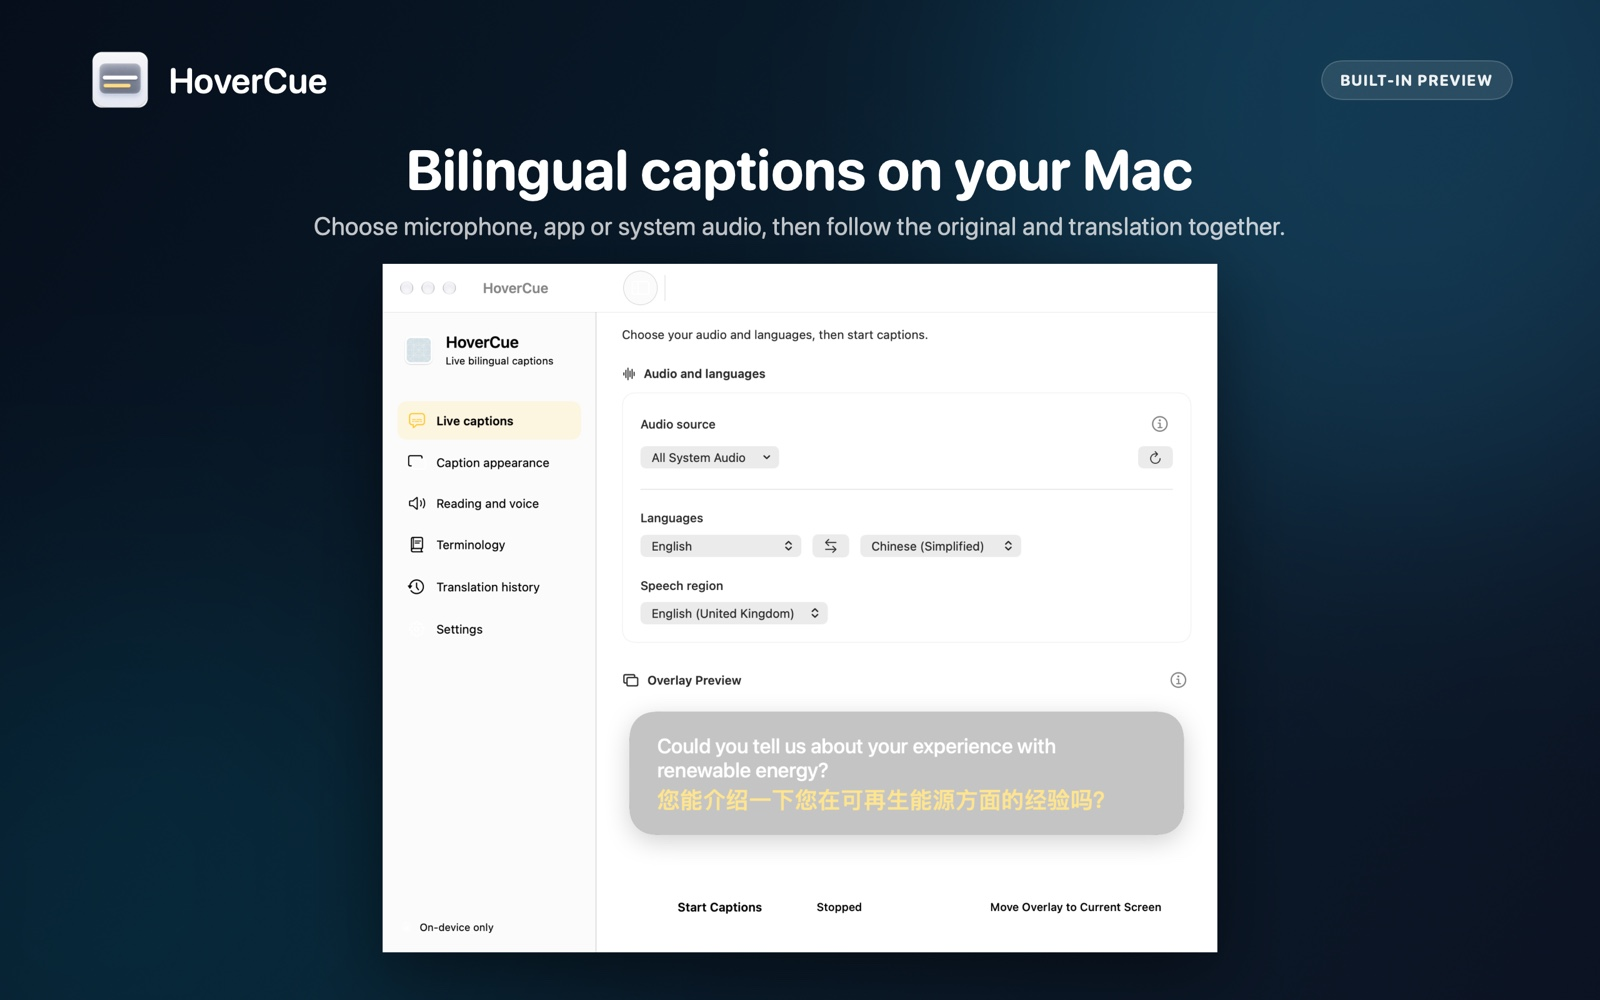
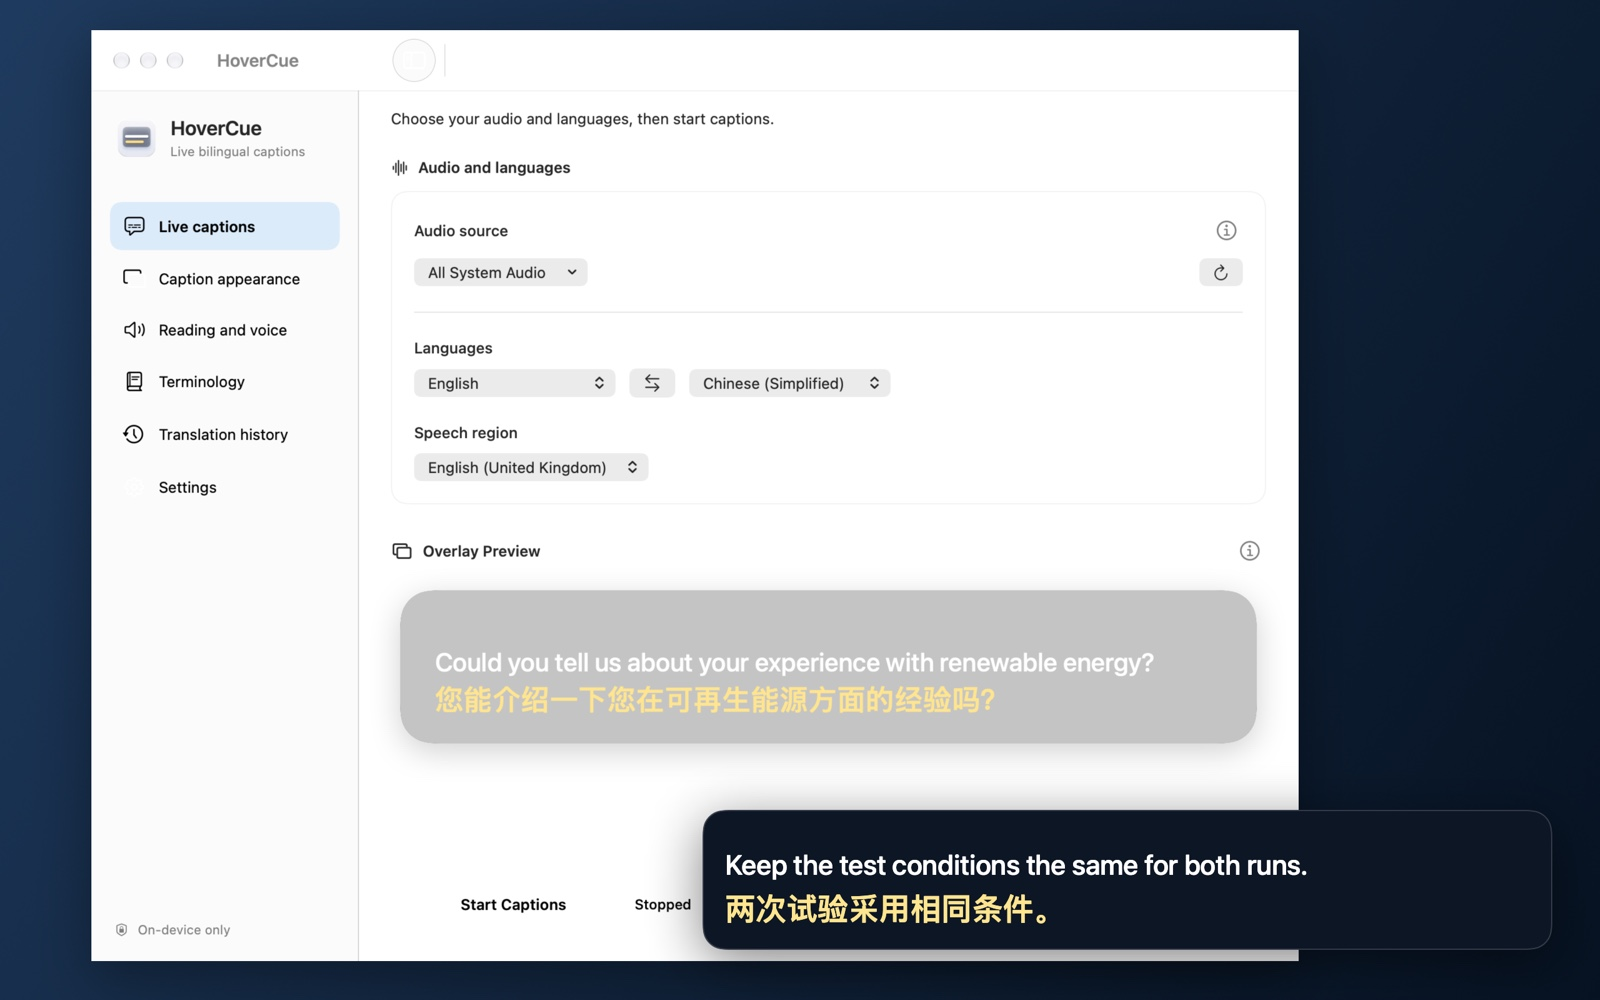
Showcase HoverCue with a bilingual feature gallery

diff --git a/README.md b/README.md
@@ -1,28 +1,81 @@
-# HoverCue
+<p align="center">
+  <img src="LocalDualCaption/Assets.xcassets/AppIcon.appiconset/AppIcon-128@2x.png" width="78" alt="HoverCue icon">
+</p>
 
-HoverCue is a native macOS app that turns audio from a selected app, all system audio, or a microphone into floating bilingual captions. Speech recognition and translation run on your Mac using Apple frameworks.
+<h1 align="center">HoverCue</h1>
 
-[简体中文](README.zh-CN.md) · [Privacy](docs/privacy.md) · [Architecture](docs/architecture.md) · [Verification](docs/testing.md) · [Dependency review](THIRD_PARTY_NOTICES.md)
+<p align="center"><strong>Live bilingual captions for Mac</strong></p>
 
-> Official HoverCue releases are available free of charge from this repository. Third-party distributors must not present their releases as official or imply approval or endorsement by the HoverCue project. [Official downloads](https://github.com/WenyuGao1/HoverCue/releases/latest)
+<p align="center">Follow meetings, courses and videos with the original speech and its translation in a floating caption window. Speech recognition and translation run on your Mac.</p>
 
-![HoverCue showing sample English and Simplified Chinese captions](docs/images/hovercue-en.jpg)
+<p align="center">
+  <strong><a href="https://github.com/WenyuGao1/HoverCue/releases/download/v1.0.1/HoverCue-v1.0.1-macOS-arm64.dmg">Download for Mac</a></strong>
+  · <a href="https://github.com/WenyuGao1/HoverCue/releases/latest">Release notes</a>
+  · <a href="README.zh-CN.md">简体中文</a>
+</p>
 
-## What it does
+![HoverCue's audio and language controls beside floating English and Chinese captions with sample text](docs/images/hovercue-en.jpg)
 
-- Shows the original speech and its translation in a floating window.
-- Offers low-latency translation and optional contextual enhancement on compatible Macs.
-- Preserves names and specialist terms using your own terminology rules.
-- Can read stable translations aloud using macOS voices.
-- Can save and export text history after you enable it and confirm that everyone involved knows and agrees. Supported Macs can generate bilingual summaries locally.
+## See HoverCue in action
 
-## Requirements
+Choose the microphone, one Mac app, or all system audio. Set the spoken and translated languages, then start captions. HoverCue offers English, Chinese (Simplified and Traditional), German, Spanish, French, Italian, Japanese, Korean and Portuguese. Exact language combinations depend on macOS and the language resources installed.
 
-- A Mac with Apple silicon and macOS 26 or later.
-- macOS 26.4 or later for the low-latency strategy and terminology controls. Contextual enhancement also requires Apple Intelligence and a supported language pair.
-- Xcode 27.2 is the verified build toolchain. The code uses newer SDK APIs with availability checks at runtime. The project uses only Apple frameworks and has no external packages.
+<table>
+  <tr>
+    <td width="50%" valign="top">
+      <strong>Floating caption controls</strong><br>
+      <a href="docs/images/en/appearance.jpg"><img src="docs/images/en/appearance.jpg" width="460" alt="HoverCue caption appearance controls with a bilingual preview"></a><br>
+      Adjust text size, colors and glass appearance. Revisit recent caption pairs in the floating window.
+    </td>
+    <td width="50%" valign="top">
+      <strong>Two translation modes</strong><br>
+      <a href="docs/images/en/translation.jpg"><img src="docs/images/en/translation.jpg" width="460" alt="HoverCue settings showing low-latency and contextual translation modes"></a><br>
+      Use low latency to keep up with speech or let contextual enhancement consider recent sentences on supported Macs.
+    </td>
+  </tr>
+  <tr>
+    <td width="50%" valign="top">
+      <strong>Custom terminology</strong><br>
+      <a href="docs/images/en/terminology.jpg"><img src="docs/images/en/terminology.jpg" width="460" alt="HoverCue terminology rules with example original terms and a fixed translation"></a><br>
+      Keep names, acronyms and technical terms as written, or supply a preferred translation for each language pair.
+    </td>
+    <td width="50%" valign="top">
+      <strong>Spoken translations</strong><br>
+      <a href="docs/images/en/voice.jpg"><img src="docs/images/en/voice.jpg" width="460" alt="HoverCue voice settings with options for spoken translations"></a><br>
+      Read completed translations aloud. Choose an installed macOS voice for the target language.
+    </td>
+  </tr>
+  <tr>
+    <td width="50%" valign="top">
+      <strong>Optional local history</strong><br>
+      <a href="docs/images/en/history.jpg"><img src="docs/images/en/history.jpg" width="460" alt="HoverCue history showing a sample battery test record and bilingual summary"></a><br>
+      Save and export bilingual text after everyone agrees. Supported Macs can generate summaries on device.
+    </td>
+    <td width="50%" valign="top">
+      <strong>On-device processing</strong><br>
+      <a href="docs/images/en/privacy.jpg"><img src="docs/images/en/privacy.jpg" width="460" alt="HoverCue privacy information showing how audio and optional text history are handled"></a><br>
+      Speech recognition and translation run on your Mac. Audio is never saved or uploaded.
+    </td>
+  </tr>
+</table>
 
-## Build and run
+*Screenshots use sample captions and a synthetic translation history.*
+
+## Download and use
+
+1. Download the [Mac installer](https://github.com/WenyuGao1/HoverCue/releases/latest) on an **Apple silicon Mac running macOS 26 or later**.
+2. Open the DMG, drag HoverCue to **Applications**, then open the app. The [release page](https://github.com/WenyuGao1/HoverCue/releases/latest) explains how to open this locally signed build if macOS prompts you.
+3. Choose an audio source and language pair. Grant the required macOS permissions and prepare missing language resources. macOS may need internet access for the initial download.
+
+Press **⌥⌘C** to start or stop captions and **⌥⌘O** to show or hide the floating window. System audio permission is under **System Settings → Privacy & Security → Screen & System Audio Recording**. App audio selection includes all audio from the selected app, including other tabs in a browser. HoverCue requests microphone permission when you explicitly select a microphone source or request access.
+
+Low-latency translation and terminology controls require **macOS 26.4 or later**. Contextual enhancement also requires Apple Intelligence and a supported language pair. HoverCue falls back to system translation when contextual enhancement is unavailable.
+
+> Official HoverCue releases are available free of charge from this repository. Third-party distributors must not present their releases as official or imply approval or endorsement by the HoverCue project.
+
+## Build from source
+
+The project uses Apple frameworks and has no external packages. The verified build toolchain is **Xcode 27.2**.
 
 ```sh
 git clone https://github.com/WenyuGao1/HoverCue.git
@@ -30,7 +83,7 @@ cd HoverCue
 open LocalDualCaption.xcodeproj
 ```
 
-In Xcode, select the **LocalDualCaption** scheme and **My Mac**, then choose **Product → Run**. The product is `HoverCue.app`. For a local command-line build:
+Select **LocalDualCaption** and **My Mac** in Xcode, then choose **Product → Run**. A local command-line build uses the same scheme.
 
 ```sh
 xcodebuild -project LocalDualCaption.xcodeproj -scheme LocalDualCaption \
@@ -39,32 +92,22 @@ xcodebuild -project LocalDualCaption.xcodeproj -scheme LocalDualCaption \
 open DerivedData/Build/Products/Debug/HoverCue.app
 ```
 
-This uses local development signing. For first-run testing, make sure you're opening the build you just compiled if another copy of HoverCue is installed.
-
-In HoverCue, choose the spoken and translated languages and prepare any missing language resources. macOS may need internet access to download them the first time. Select an audio source, grant the permissions macOS requests for that source, and start captions. Use **⌥⌘C** to start or stop captions and **⌥⌘O** to show or hide the floating window.
-
-System audio permissions are managed in **System Settings → Privacy & Security → Screen & System Audio Recording**. System audio selection works at the app level, so selecting a browser includes audio from that browser's other tabs. Microphone permission is requested only when you explicitly choose a microphone source or request access.
-
-## Run the checks
-
-From the repository root:
+This uses local development signing. If another copy of HoverCue is installed, make sure you open the build you just compiled.
 
 ```sh
 ./Scripts/verify_release.sh
 ```
 
-This checks the localized resources, runs the macOS unit tests, analyzes and builds the Release configuration, and verifies the local app signature and entitlements. An integration test may need an Apple-managed translation resource installed on the test Mac. To test live audio and first-run permissions, run the app interactively.
+The verification script checks localized resources, runs the macOS tests, analyzes and builds the Release configuration, and verifies its signature and entitlements. The system translation integration test may need Apple language resources installed.
 
-## Architecture
-
-ScreenCaptureKit supplies selected app or system audio. Apple audio input APIs handle the microphone. A bounded caption pipeline feeds on-device Speech recognition, then Apple Translation or optional Foundation Models enhancement. The floating window displays the results. Spoken translation and opt-in SQLite text history run on separate paths. [Architecture and code map](docs/architecture.md)
+[Architecture](docs/architecture.md) · [Privacy](docs/privacy.md) · [Verification](docs/testing.md) · [Dependency and asset notes](THIRD_PARTY_NOTICES.md)
 
 ## Feedback
 
-Use GitHub Issues to report bugs. Include the macOS version, HoverCue version, language pair, audio source type, and steps that use public or synthetic material. Keep real audio, captions, translations, exported histories, and meeting screenshots private.
+Report issues with your macOS and HoverCue versions, language pair, audio source type and steps that use sample material. Keep real audio, captions, translations, exported histories and meeting screenshots private. [GitHub Issues](https://github.com/WenyuGao1/HoverCue/issues)
 
 ## License
 
-Copyright © 2026 Wenyu Gao. The HoverCue source and original project assets in this version are licensed under the [GNU General Public License, version 3 only](LICENSE), SPDX `GPL-3.0-only`. You may study, modify, and use the software commercially. If you distribute a modified version covered by this license, you must comply with GPLv3, including making the corresponding source available to recipients as required by the license. The earlier `v1.0.0` release was published under MIT and remains subject to the license that accompanied it.
+Copyright © 2026 Wenyu Gao. The HoverCue source and original project assets are licensed under the [GNU General Public License, version 3 only](LICENSE), SPDX `GPL-3.0-only`. You may study, modify and use the software commercially. Distributors of a GPL-covered modified version must make the corresponding source available to recipients as required by the license.
 
-Apple frameworks and OS-provided models are supplied separately by Apple under their applicable terms. See [dependency and asset notes](THIRD_PARTY_NOTICES.md).
+The earlier `v1.0.0` release retains the MIT terms under which it was published. Apple frameworks and OS-provided models are supplied separately under their applicable terms. [Dependency and asset notes](THIRD_PARTY_NOTICES.md)

diff --git a/README.zh-CN.md b/README.zh-CN.md
@@ -1,28 +1,81 @@
-# HoverCue
+<p align="center">
+  <img src="LocalDualCaption/Assets.xcassets/AppIcon.appiconset/AppIcon-128@2x.png" width="78" alt="HoverCue icon">
+</p>
 
-HoverCue 是一款原生 macOS 实时双语字幕工具。它可处理指定应用、全部系统音频或麦克风输入，把原文和译文显示在悬浮窗口里。语音识别和翻译通过 Apple 框架在本机运行。
+<h1 align="center">HoverCue</h1>
 
-[English](README.md) · [隐私说明](docs/privacy.md) · [技术架构](docs/architecture.md) · [验证记录](docs/testing.md) · [依赖与授权](THIRD_PARTY_NOTICES.md)
+<p align="center"><strong>Mac 上的实时双语悬浮字幕</strong></p>
 
-> HoverCue 官方版在本仓库免费提供。第三方发布者不得冒充官方发布，也不得暗示其版本获得 HoverCue 项目的认可或背书。 [官方下载](https://github.com/WenyuGao1/HoverCue/releases/latest)
+<p align="center">开会、听课或看视频时，在屏幕上同时看原文和译文。语音识别和翻译在 Mac 上完成。</p>
 
-![HoverCue 显示英语和简体中文示例字幕](docs/images/hovercue-zh-CN.jpg)
+<p align="center">
+  <strong><a href="https://github.com/WenyuGao1/HoverCue/releases/download/v1.0.1/HoverCue-v1.0.1-macOS-arm64.dmg">下载 Mac 安装包</a></strong>
+  · <a href="https://github.com/WenyuGao1/HoverCue/releases/latest">发布说明</a>
+  · <a href="README.md">English</a>
+</p>
 
-## 功能
+![HoverCue 主界面旁的中英双语悬浮字幕，使用虚构示例](docs/images/hovercue-zh-CN.jpg)
 
-- 在悬浮窗口同时显示原文与译文。
-- 支持低延迟翻译，并可在兼容的 Mac 上使用上下文增强。
-- 通过自定义术语规则保留原词或指定译法。
-- 可用 macOS 系统音色朗读稳定译文。
-- 手动开启并确认相关参与者已知晓且同意后，可在本机保存和导出文字历史。兼容机型还可在本机生成双语总结。
+## 功能与界面
 
-## 系统要求
+可以选麦克风、指定的 Mac 应用或全部系统音频。设置原文和译文语言后即可开启字幕。支持英语、简体及繁体中文、德语、西班牙语、法语、意大利语、日语、韩语和葡萄牙语。具体可用的语言组合取决于 macOS 版本及语言资源。
 
-- 搭载 Apple 芯片、运行 macOS 26 或更新版本的 Mac。
-- 低延迟翻译策略和术语控制需要 macOS 26.4 或更新版本。上下文增强还需要可用的 Apple 智能和受支持的语言组合。
-- 已验证的构建工具链为 Xcode 27.2。新版 SDK 接口在运行时有系统版本检查。工程只使用 Apple 框架，无外部依赖包。
+<table>
+  <tr>
+    <td width="50%" valign="top">
+      <strong>悬浮字幕外观</strong><br>
+      <a href="docs/images/zh-CN/appearance.jpg"><img src="docs/images/zh-CN/appearance.jpg" width="460" alt="HoverCue 字幕外观设置与双语预览"></a><br>
+      调节字体大小、颜色和玻璃外观，也可以在悬浮窗里回看最近的双语字幕。
+    </td>
+    <td width="50%" valign="top">
+      <strong>两种翻译模式</strong><br>
+      <a href="docs/images/zh-CN/translation.jpg"><img src="docs/images/zh-CN/translation.jpg" width="460" alt="HoverCue 设置显示低延迟和上下文增强翻译模式"></a><br>
+      低延迟模式适合跟上讲话。在支持 Apple 智能的 Mac 上，上下文增强可以参考前面几句。
+    </td>
+  </tr>
+  <tr>
+    <td width="50%" valign="top">
+      <strong>自定义术语</strong><br>
+      <a href="docs/images/zh-CN/terminology.jpg"><img src="docs/images/zh-CN/terminology.jpg" width="460" alt="HoverCue 术语页展示保留原词与指定译法"></a><br>
+      保留人名、缩写和专业词，也可以按语言方向指定固定译法。
+    </td>
+    <td width="50%" valign="top">
+      <strong>译文朗读</strong><br>
+      <a href="docs/images/zh-CN/voice.jpg"><img src="docs/images/zh-CN/voice.jpg" width="460" alt="HoverCue 朗读与声音设置"></a><br>
+      为译文语言选择已安装的 macOS 系统音色，自动朗读完成的译文。
+    </td>
+  </tr>
+  <tr>
+    <td width="50%" valign="top">
+      <strong>可选的本地历史</strong><br>
+      <a href="docs/images/zh-CN/history.jpg"><img src="docs/images/zh-CN/history.jpg" width="460" alt="HoverCue 翻译历史展示虚构的电池试验记录和双语总结"></a><br>
+      征得参与者同意后可保存、回看和导出双语文字，兼容的 Mac 还能在本地生成双语总结。
+    </td>
+    <td width="50%" valign="top">
+      <strong>全程在本机处理</strong><br>
+      <a href="docs/images/zh-CN/privacy.jpg"><img src="docs/images/zh-CN/privacy.jpg" width="460" alt="HoverCue 隐私说明展示音频和可选文字历史的处理方式"></a><br>
+      语音识别和翻译都在 Mac 上进行，音频不保存、不上传。文字历史每次启动默认关闭。
+    </td>
+  </tr>
+</table>
 
-## 构建和使用
+*截图使用演示字幕和虚构的翻译记录。*
+
+## 下载和使用
+
+1. 在搭载 **Apple 芯片**、运行 **macOS 26 或更新版本**的 Mac 上下载[安装包](https://github.com/WenyuGao1/HoverCue/releases/latest)。
+2. 打开 DMG，把 HoverCue 拖进“应用程序”，再打开。首次打开若被系统拦截，请看[发布页里的打开方法](https://github.com/WenyuGao1/HoverCue/releases/latest)。
+3. 选择音源和双语方向，按系统提示授权，并准备所需的语言资源。macOS 首次下载资源时可能需要联网。
+
+按 **⌥⌘C** 开始或停止字幕，按 **⌥⌘O** 显示或隐藏悬浮窗。系统音频权限在 **系统设置 → 隐私与安全性 → 屏幕与系统音频录制**。选择浏览器作为音源时，会处理该浏览器多个标签页的音频。只有明确选择麦克风音源或主动申请授权后，应用才会请求麦克风权限。
+
+低延迟翻译和术语控制需要 **macOS 26.4 或更新版本**。上下文增强还需要 Apple 智能和受支持的语言组合。上下文增强不可用时，应用会回到系统翻译。
+
+> HoverCue 官方版在本仓库免费提供。第三方发布者不得冒充官方发布，也不得暗示其版本获得 HoverCue 项目的认可或背书。
+
+## 从源码构建
+
+工程只使用 Apple 框架，无外部依赖包。已验证的构建工具链为 **Xcode 27.2**。
 
 ```sh
 git clone https://github.com/WenyuGao1/HoverCue.git
@@ -30,7 +83,7 @@ cd HoverCue
 open LocalDualCaption.xcodeproj
 ```
 
-在 Xcode 选择 **LocalDualCaption** 和 **My Mac**，然后选择 **Product → Run**。也可以从终端构建并打开应用：
+在 Xcode 选择 **LocalDualCaption** 和 **My Mac**，然后选择 **Product → Run**。也可以从终端构建并打开应用。
 
 ```sh
 xcodebuild -project LocalDualCaption.xcodeproj -scheme LocalDualCaption \
@@ -39,32 +92,22 @@ xcodebuild -project LocalDualCaption.xcodeproj -scheme LocalDualCaption \
 open DerivedData/Build/Products/Debug/HoverCue.app
 ```
 
-本地构建使用开发签名。如果电脑上已装有另一份 HoverCue，首次试运行时请确认打开的是刚构建的版本。
-
-在 HoverCue 中选择原文和译文语言，按提示准备缺少的语言资源。首次下载资源时 macOS 可能需要联网。选择音源并授予系统要求的权限后，即可开始字幕。按 **⌥⌘C** 开始或停止字幕，按 **⌥⌘O** 显示或隐藏悬浮窗。
-
-系统音频权限在 **系统设置 → 隐私与安全性 → 屏幕与系统音频录制** 管理。音源筛选以应用为单位，选择浏览器会处理该浏览器其他标签页的声音。只有明确选择麦克风音源或主动申请授权后，应用才请求麦克风权限。
-
-## 验证
-
-在仓库根目录运行：
+本地构建使用开发签名。如果 Mac 上已装有另一份 HoverCue，请确认打开的是刚构建的版本。
 
 ```sh
 ./Scripts/verify_release.sh
 ```
 
-脚本检查本地化资源，运行 macOS 单元测试，分析并构建 Release 版本，再验证生成应用的本地签名和权限。系统翻译集成测试可能需要提前安装 Apple 提供的语言资源。真实音频和首次授权可通过手动运行应用来验证。
+验证脚本检查本地化资源，运行 macOS 单元测试，分析并构建 Release 版本，再核验签名和权限。系统翻译集成测试可能需要提前安装 Apple 提供的语言资源。
 
-## 技术架构
-
-ScreenCaptureKit 采集所选应用或系统音频，麦克风走 Apple 的音频输入接口。有界字幕流水线将音频送入本机语音识别，再调用 Apple Translation 或可选的 Foundation Models 上下文增强。悬浮窗显示双语结果，译文朗读和用户主动开启的 SQLite 文字历史各走独立流程。 [架构与源码位置](docs/architecture.md)
+[技术架构](docs/architecture.md) · [隐私说明](docs/privacy.md) · [验证记录](docs/testing.md) · [依赖与素材说明](THIRD_PARTY_NOTICES.md)
 
 ## 反馈
 
-欢迎在 GitHub Issues 报告问题。请提供 macOS 和 HoverCue 版本、语言组合、音源类型，以及使用公开或虚构素材的复现步骤。请将真实音频、字幕、译文、导出记录和会议截图留在本机。
+报告问题时请注明 macOS 与 HoverCue 版本、语言组合和音源类型，并用演示素材给出复现步骤。请把真实音频、字幕、译文、导出记录和会议截图留在本机。 [GitHub Issues](https://github.com/WenyuGao1/HoverCue/issues)
 
 ## 许可证
 
-版权 © 2026 Wenyu Gao。本版本的 HoverCue 源码和原创项目素材采用 [GNU 通用公共许可证第三版](LICENSE)，SPDX 标识为 `GPL-3.0-only`。允许学习、修改、商用和分发。分发受此许可证约束的修改版时，须遵守 GPLv3，包括按许可证要求向接收者提供对应源码。此前的 `v1.0.0` 已以 MIT 发布，旧版沿用当时附带的许可。
+版权 © 2026 Wenyu Gao。HoverCue 源码和原创项目素材采用 [GNU 通用公共许可证第三版](LICENSE)，标识为 `GPL-3.0-only`。允许学习、修改、商用和分发。分发受此许可证约束的修改版时，须按许可证要求向接收者提供对应源码。
 
-Apple 系统框架及系统模型由 Apple 单独提供，适用各自条款。 [依赖与素材说明](THIRD_PARTY_NOTICES.md)
+旧版 `v1.0.0` 沿用当时发布的 MIT 许可。Apple 系统框架及系统模型由 Apple 单独提供，适用各自条款。 [依赖与素材说明](THIRD_PARTY_NOTICES.md)
